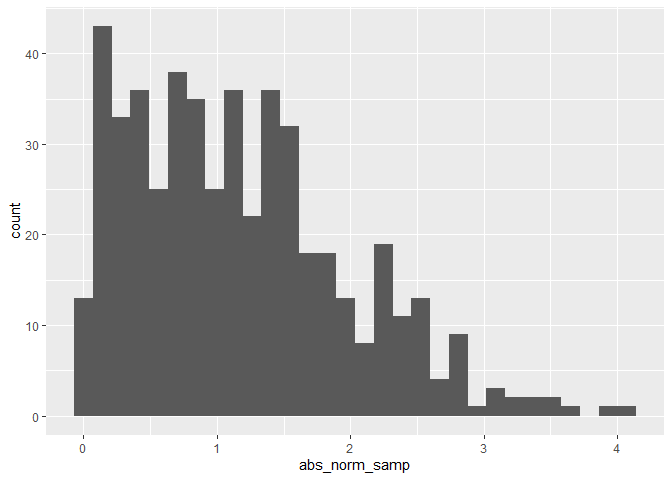
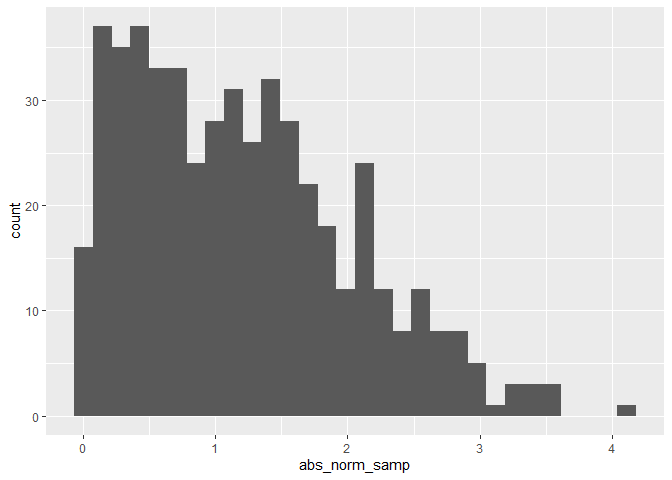
boom, lecture 4 done!

diff --git a/review_all.md b/review_all.md
@@ -214,11 +214,17 @@ ggplot(la_df, aes(x = abs_norm_samp)) + geom_histogram()
 median_samp = median(pull(la_df, norm_samp))
 ```
 
-Here you can find the median rounded 0.98.
+Here you can find the median rounded 1.05.
 
-Lets write a list of our previous sample *0.9776383 *0.9787247 \*
-1.0230305
+Lets write a list of our previous sample *1.0370738 *1.0545117 \*
+1.0240904
 
 # Git and Github
 
-Yay let’s start class 4.
+Yay let’s start class 4. Luckily, I actually remember how to do most of
+this as we are currently using git for this document. lol!
+
+no need to review this information, we can now move onto the **HARD**
+stuff.
+
+say a *prayer*.
